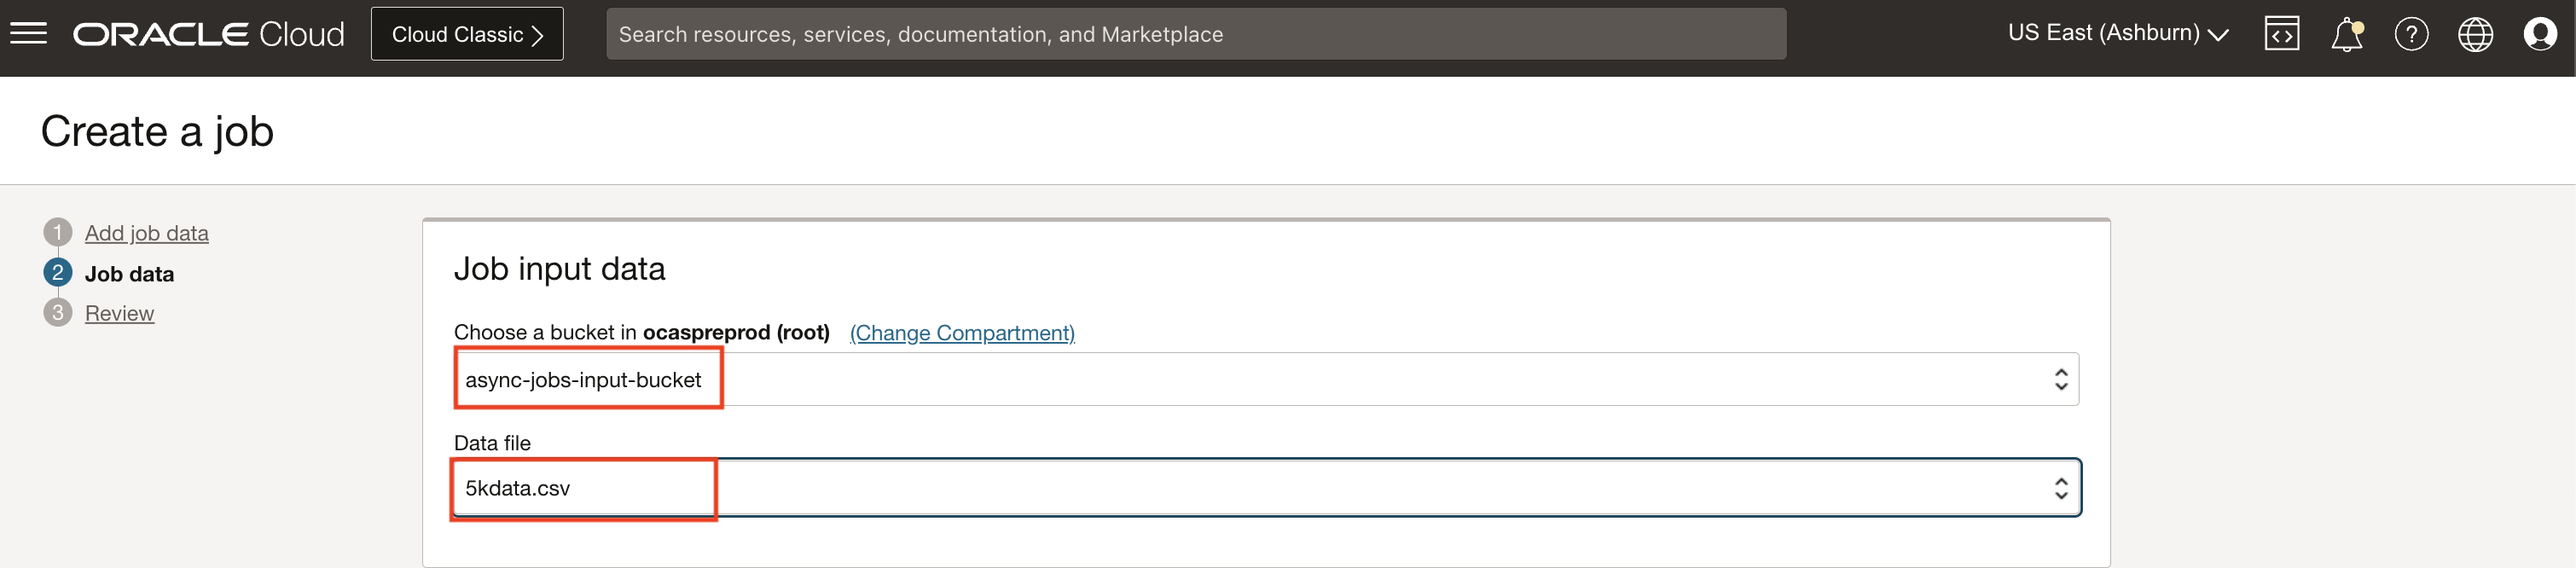
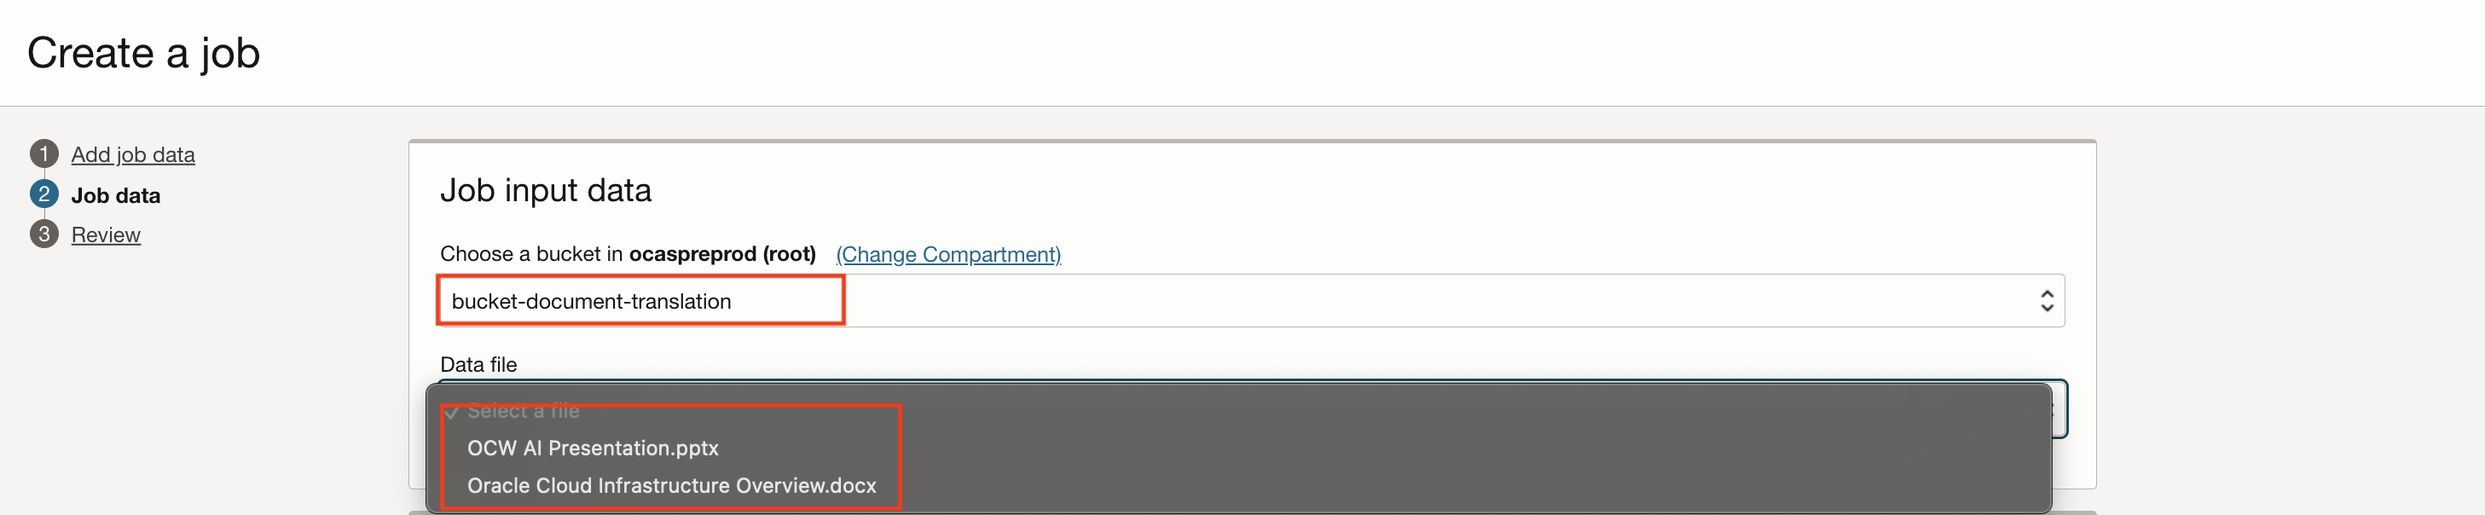
Updated live labs for async

diff --git a/oci-artificial-intelligence/ai-language/async-job/async-job.md b/oci-artificial-intelligence/ai-language/async-job/async-job.md
@@ -15,6 +15,7 @@ In this lab, you will:
 ### Prerequisites
 
 - A Free tier or paid tenancy account in OCI (Oracle Cloud Infrastructure)
+- Completed [Lab 2](?lab=custom-model#Task2:CreateCustomNERModel) to create a custom Named Entity Recognition model.
 - Familiar with OCI object storage to upload data.
 
 ## **Policy Setup**
@@ -68,7 +69,7 @@ Follow these steps to configure required policies.
 Follow below steps to create a job.
 
 1. **Upload the training data to Object Storage**:
-    1. Download and extract the hotel dataset from this [link](https://objectstorage.us-ashburn-1.oraclecloud.com/p/Ei1_2QRw4M8tQpk59Qhao2JCvEivSAX8MGB9R6PfHZlqNkpkAcnVg4V3-GyTs1_t/n/c4u04/b/livelabsfiles/o/oci-library/hotel.zip).
+    1. Download and extract the hotel dataset from this [link](https://c4u04.objectstorage.us-ashburn-1.oci.customer-oci.com/p/EcTjWk2IuZPZeNnD_fYMcgUhdNDIDA6rt9gaFj_WZMiL7VvxPBNMY60837hu5hga/n/c4u04/b/livelabsfiles/o/oci-library/hotel.zip).
 
     2. Upload training data to object storage:
         - Log into OCI Console. Using the Burger Menu on the top left corner, navigate to Storage and click it, and then select Buckets item under Object Storage and Archive Storage.
@@ -96,7 +97,7 @@ Follow below steps to create a job.
 
     ![Pretrained language detection](./images/pretrained-language-detection.png " ")
 
-7. **Specify job input data to run the job**: Choose the data type and bucket name in which the hotel dataset was uploaded in step 1 and from which the job will take input.
+7. **Specify job input data to run the job**: Choose the data type and bucket name in which the hotel.csv uploaded in step 1.
 
     ![job-input-data](./images/job-input-data-hotel.png " ")
 
@@ -108,7 +109,7 @@ Follow below steps to create a job.
 
     ![job-output-data](./images/succeeded-job.png " ")
 
-10. **Review the job output** : The job result can be downloaded once it has been successfully completed by clicking the Output file location link in the job details page and searching for the folder with job OCID.
+10. **Access the job output** : Output files created by the job can be accessed once it has been successfully completed by navigating to the Output file location. Click on Output file location link to navigate to output folder, then navigate to the folder named same as  job ocid to access the output files.
 
     ![job-output-result](./images/succeeded-job-result.png " ")
 
@@ -127,66 +128,90 @@ Follow below steps to create a job.
 
         For more details on uploading data to Object Storage, refer [Putting Data into Object Storage](https://oracle-livelabs.github.io/oci-core/object-storage/workshops/freetier/index.html?lab=object-storage)
 
-2. **Specify job properties**: Specify job name, compartment details and job description.
+2. Log into OCI Cloud Console. Using the Burger Menu on the top left corner, navigate to Analytics and AI menu and click it, and then select Language Service item under AI services.
 
-3. **Create a custom model from [Lab 2](?lab=custom-model#Task3:CreateCustomClassificationModel)**
+    ![OCI Language Screen](./images/navigate-to-ai-language.png " ")
 
-4. **Specify model type to run the job**: Choose Named entity recognition for model type.
+3. Select jobs on the left hand side of the console.
+
+    ![Job List](./images/job-list.png " ")
+
+4. The Create Job button navigates user to a form where they can specify the details to create an async job.
+
+    ![Create Job Panel](./images/create-job.png " ")
+
+5. **Specify job properties**: Specify job name, compartment details and job description.
+
+6. **Specify model type to run the job**: Select the custom Named Entity Recognition model you created in [Lab 2](?lab=custom-model#Task2:CreateCustomNERModel).
 
     ![async-job-custom-model](./images/async-job-custom-model.png " ")
 
-5. **Specify custom model details**: Select the model created in **Step 3**. You can also specify a existing model endpoint optionally and click Next.
+7. **Specify custom model details**: Select the model created in **Step 3**. You can also specify a existing model endpoint optionally and click Next.
 
     ![async-job-custom-model-details](./images/async-job-custom-model-details.png " ")
 
-6. **Specify job input data to run the job**: Select the data type and choose the bucket created in previous step from which the job will take input.
+8. **Specify job input data to run the job**: Select the data type and choose the bucket created in previous step from which the job will take input.
 
     ![job-input-data](./images/job-input-data-txtc.png " ")
 
-7. **Specify job output data to run the job**: Select the option to store job result and click Next.
+9. **Specify job output data to run the job**: Select the option to store job result and click Next.
 
     ![job-output-data](./images/job-output-data.png " ")
 
-8. **Create job**: Click on Create Job button to create an async job. Wait until the job execution is successful and job is in *SUCCEEDED* state.
+10. **Create job**: Click on Create Job button to create an async job. Wait until the job execution is successful and job is in *SUCCEEDED* state.
 
     ![job-output-data](./images/succeeded-job.png " ")
 
-9. **Review the job output** : The job result can be downloaded once it has been successfully completed by clicking the Output file location link in the job details page and searching for the folder with job OCID.
+11. **Access the job output** : Output files created by the job can be accessed once it has been successfully completed by navigating to the Output file location. Click on Output file location link to navigate to output folder, then navigate to the folder named same as  job ocid to access the output files.
 
     ![job-output-result](./images/succeeded-job-result.png " ")
+
+
 
 ## Task 3: Create an async job for translating documents
 
 1. **Upload the training data to Object Storage**:
     1. Download the translation dataset from this [link](https://c4u04.objectstorage.us-ashburn-1.oci.customer-oci.com/p/EcTjWk2IuZPZeNnD_fYMcgUhdNDIDA6rt9gaFj_WZMiL7VvxPBNMY60837hu5hga/n/c4u04/b/livelabsfiles/o/oci-library/sample-documents-for-translation.zip).
         - Extract the zip file contents into a directory.
-    2. Upload the training dataset files to object storage:
+    2. Upload the files to object storage:
         - Log into OCI Cloud Console. Using the Burger Menu on the top left corner, navigate to Storage and click it, and then select Buckets item under Object Storage and Archive Storage.
                 ![OCI Hamburger menu](./images/object-storage-navigation.png " ")
-        - Create bucket and upload Custom NER offerletter data extracted above.
+        - Create bucket and upload extracted files OCW AI Presentation.pptx and Oracle Cloud Infrastructure Overview.docx to object storage.
                 ![Upload Objects](./images/upload-data.png " ")
 
         For more details on uploading data to Object Storage, refer [Putting Data into Object Storage](https://oracle-livelabs.github.io/oci-core/object-storage/workshops/freetier/index.html?lab=object-storage)
 
-2. **Specify job properties**: Specify job name, compartment details and job description.
+2. Log into OCI Cloud Console. Using the Burger Menu on the top left corner, navigate to Analytics and AI menu and click it, and then select Language Service item under AI services.
 
-3. **Specify model type to run the job**: Select Pretrained language translation as the feature type and specify the source and target languages.
+    ![OCI Language Screen](./images/navigate-to-ai-language.png " ")
+
+3. Select jobs on the left hand side of the console.
+
+    ![Job List](./images/job-list.png " ")
+
+4. The Create Job button navigates user to a form where they can specify the details to create an async job.
+
+    ![Create Job Panel](./images/create-job.png " ")
+
+5. **Specify job properties**: Specify job name, compartment details and job description.
+
+6. **Specify model type to run the job**: Select Pretrained language translation as the feature type and specify the source and target languages.
 
     ![async-job-document-translation](./images/async-job-document-translation.png " ")
 
-4. **Specify job input data to run the job**: Select the bucket created in previous step and data file from which the job will take input.
+7. **Specify job input data to run the job**: Select the bucket created in previous step and file that was uploaded.
 
     ![job-input-data](./images/document-translation-input-data.png " ")
 
-5. **Specify job output data to run the job**: Select the option to store job result and click Next.
+8. **Specify job output data to run the job**: Select the option to store job result and click Next.
 
     ![job-output-data](./images/job-output-data.png " ")
 
-6. **Create job**: Click "Create Job" and this will kick off the process. Wait until the job execution is successful and job is in *SUCCEEDED* state.
+9. **Create job**: Click "Create Job" and this will kick off the process. Wait until the job execution is successful and job is in *SUCCEEDED* state.
 
     ![job-output-data](./images/succeeded-job.png " ")
 
-7. **Review the job output** : The job result can be downloaded once it has been successfully completed by clicking the Output file location link in the job details page and searching for the folder with job OCID.
+10. **Access the job output** : Output files created by the job can be accessed once it has been successfully completed by navigating to the Output file location. Click on Output file location link to navigate to output folder, then navigate to the folder named same as  job ocid to access the output files.
 
     ![job-output-result](./images/succeeded-job-result.png " ")
 
@@ -303,7 +328,7 @@ print("deleteJob ", delete_job.data)
 
 Download [code](./files/async_job_python_sdk.py) file and save it your directory.
 
-#### 2. **Python code to create document translation**
+#### 2. **Python code to create document translation job**
 
 ```Python
 <copy>

diff --git a/oci-artificial-intelligence/ai-language/workshops/freetier/intro.md b/oci-artificial-intelligence/ai-language/workshops/freetier/intro.md
@@ -51,7 +51,7 @@ OCI Language now provides an API to automatically translate text across 21 langu
 
 ### **Jobs**
 
-OCI Language now provides an API to create async jobs.
+OCI Language now provides an API to create async jobs that enables you to process large volumes of text and translate documents in a batch mode.
 
 <!-- [AI Language Demonstration Video](youtube:LamMjG3mD-s) -->
 
